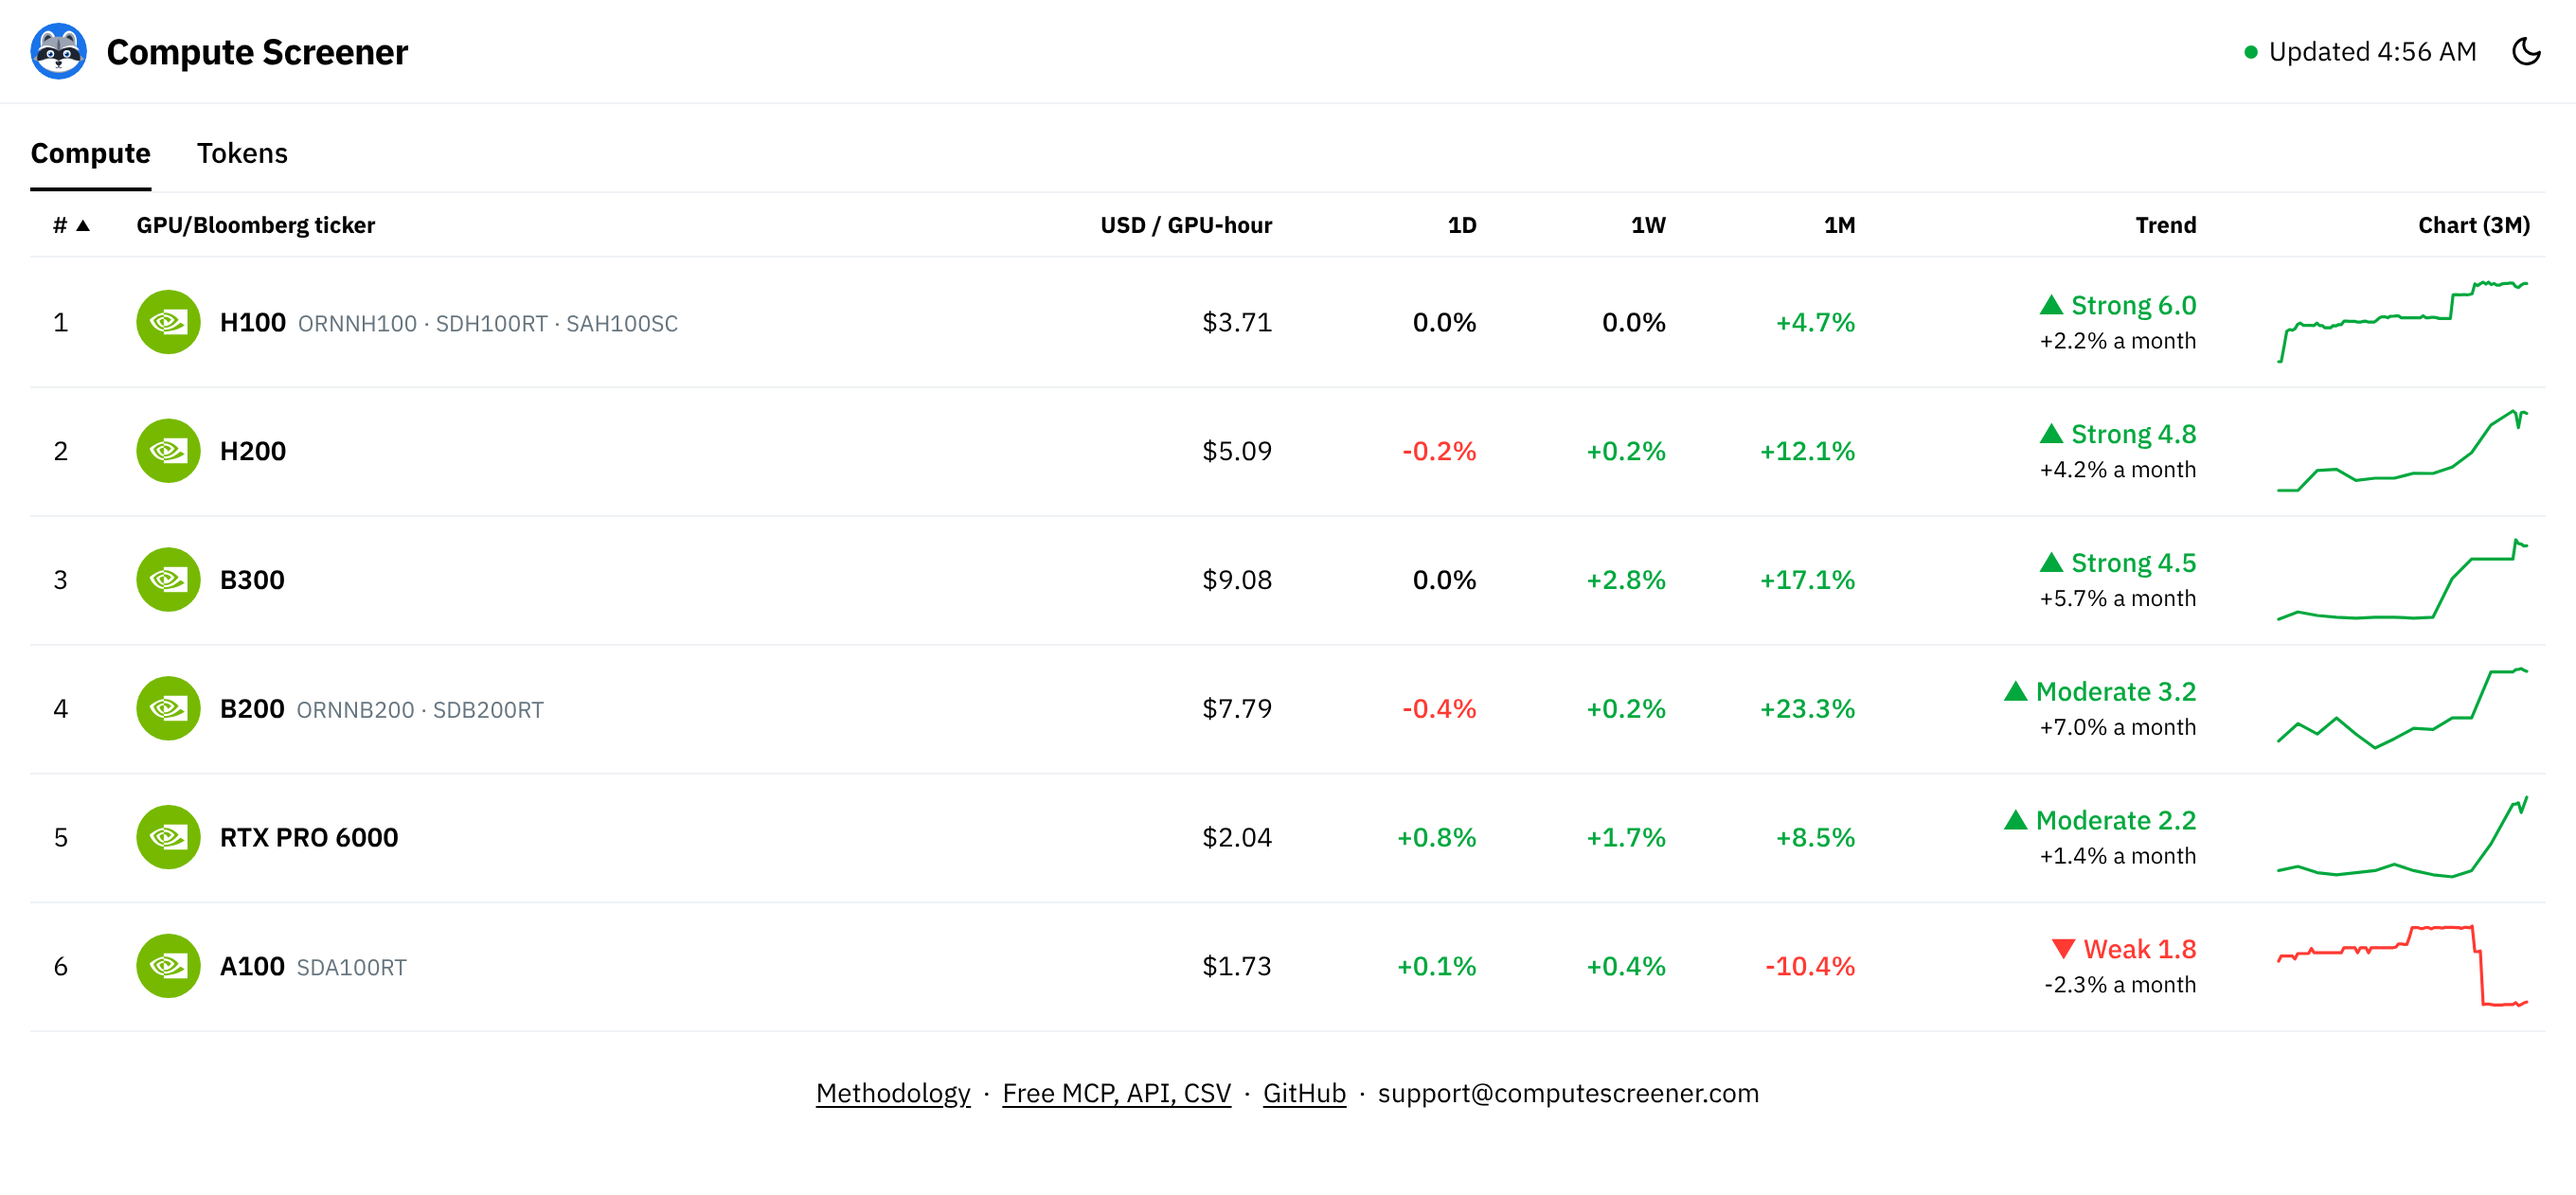
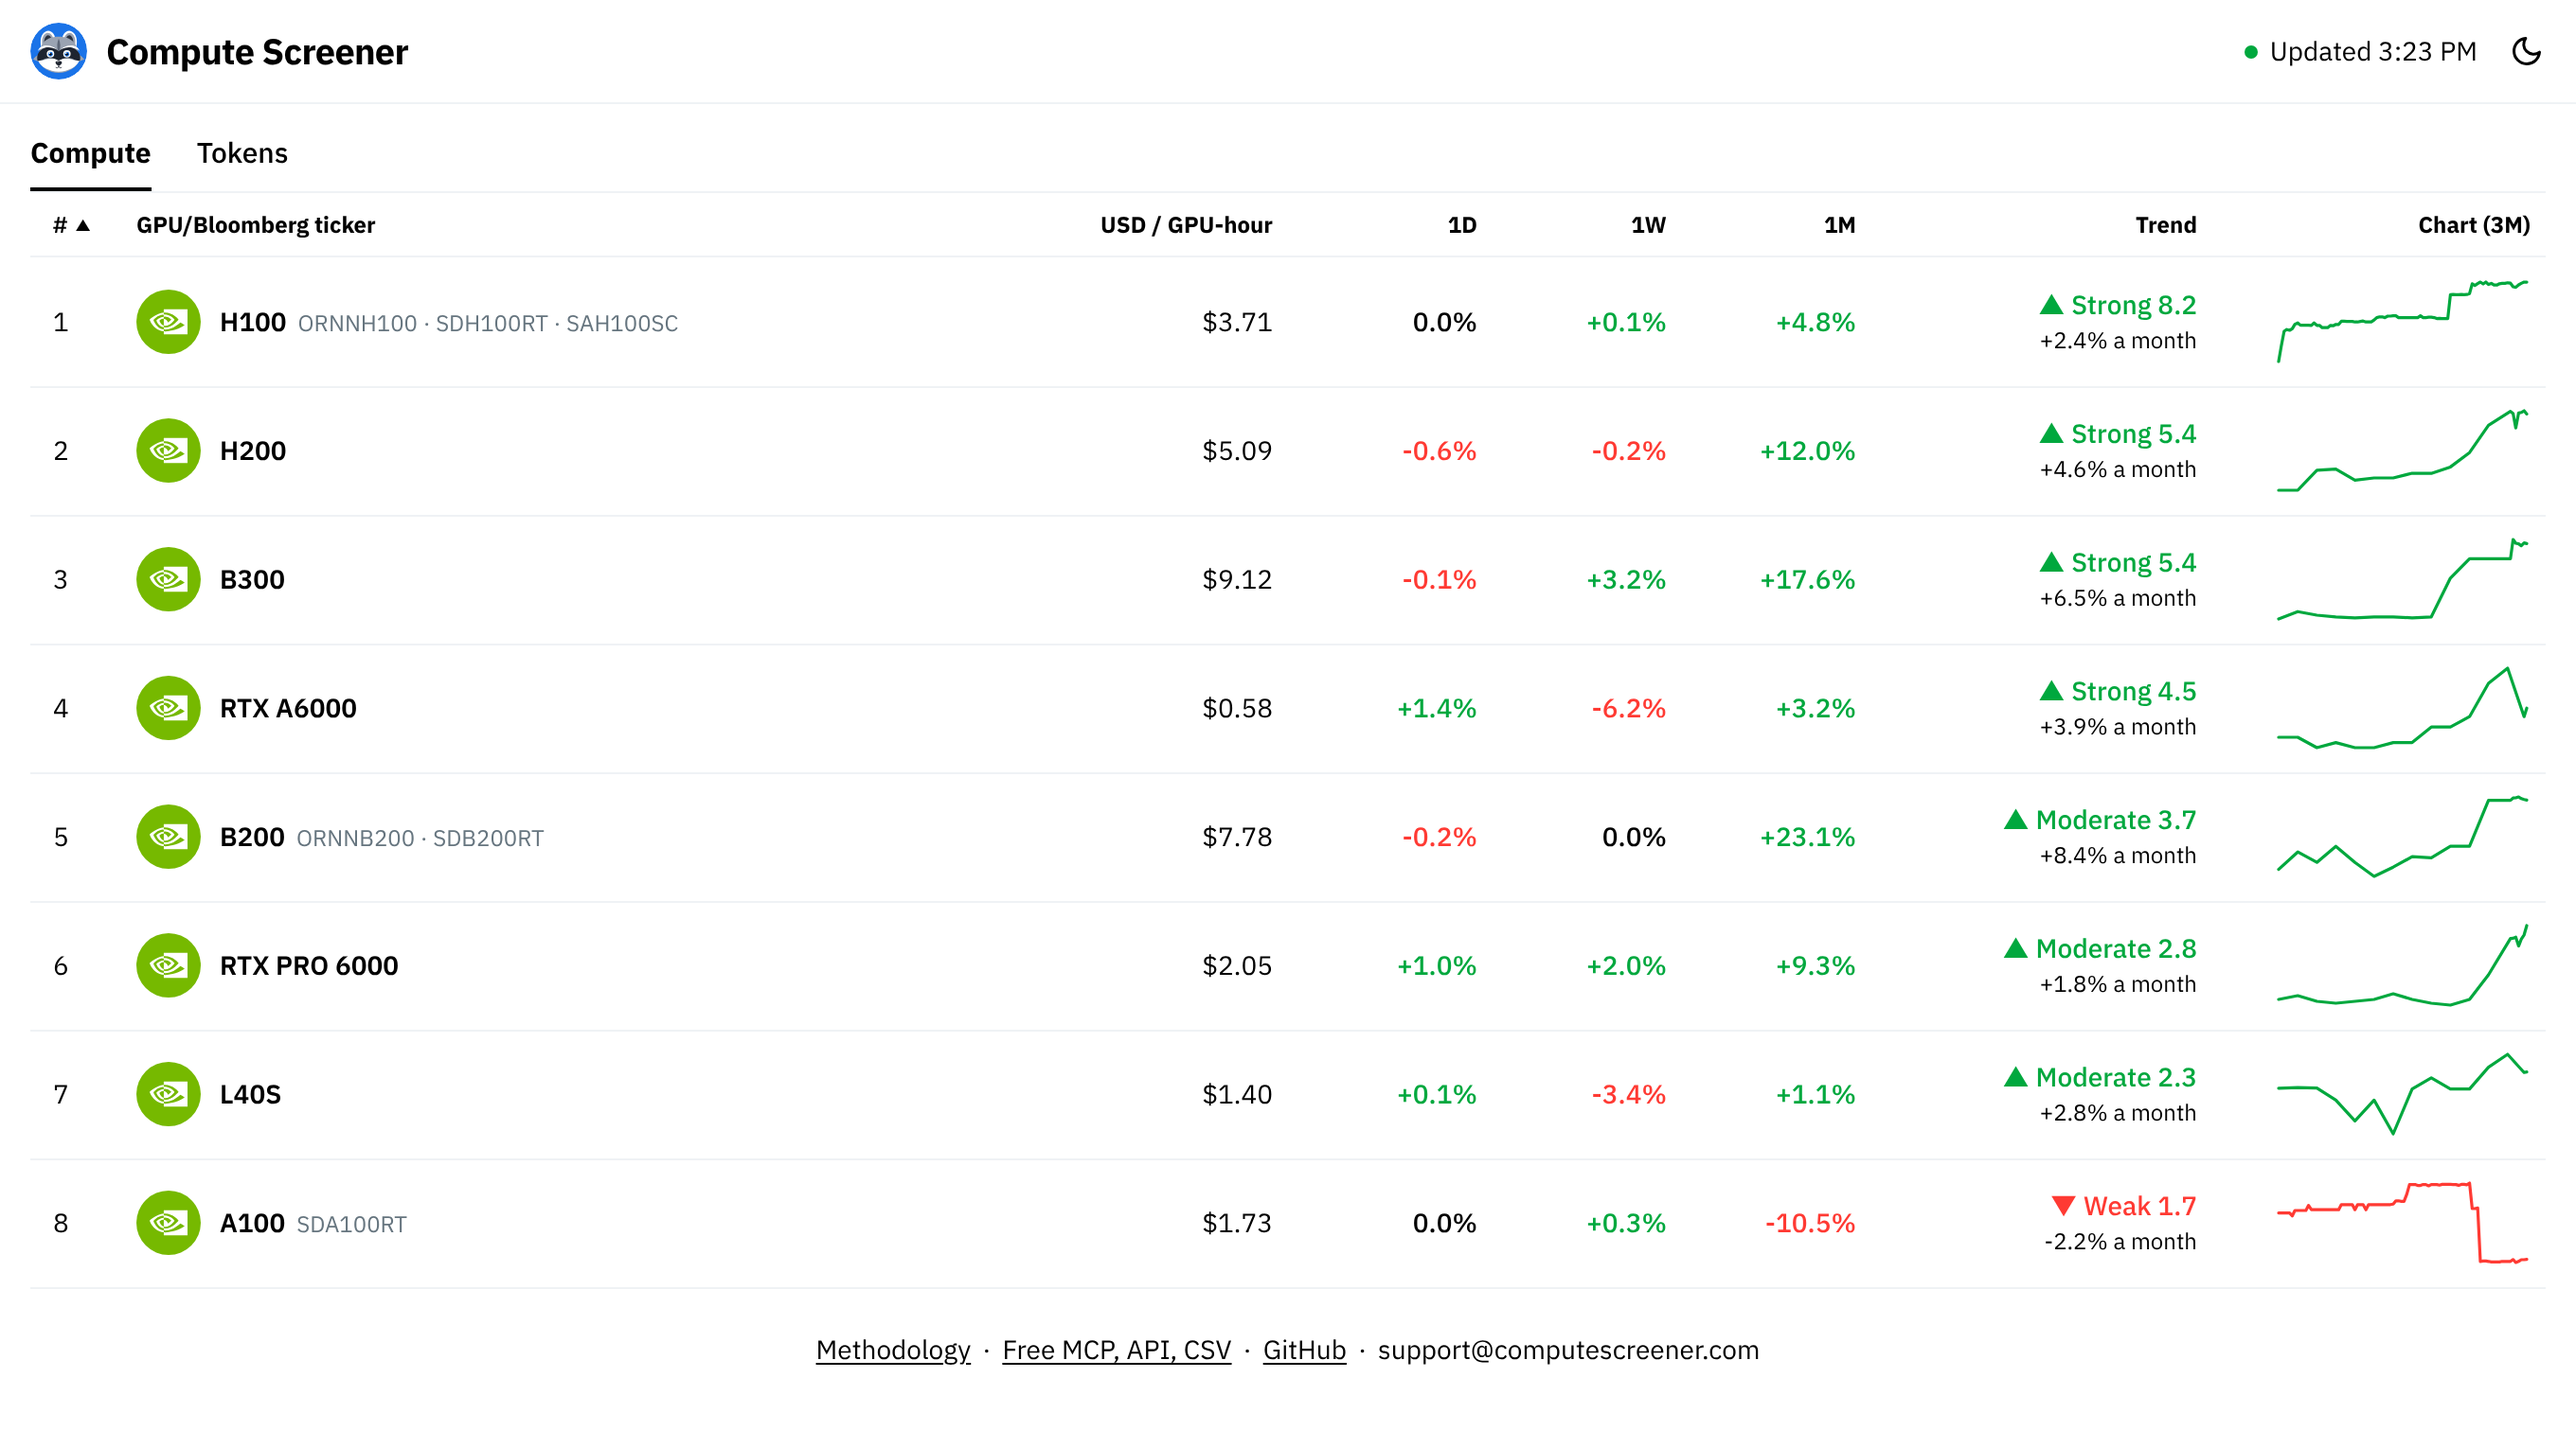
README: screenshot with all eight GPUs
The list as it is today (H100, H200, B300, RTX A6000, B200, RTX PRO 6000, L40S, A100), taken at the same width
and scale as before; the image's description names the eight.

Claude-Session: https://claude.ai/code/session_019hcW9tTdzfgdVPtRGoTEdo

diff --git a/README.md b/README.md
@@ -10,7 +10,7 @@
 </p>
 
 <p align="center">
-  <a href="https://computescreener.com"><img src="docs/screenshot.png" alt="Compute Screener: rental prices of H100, H200, B300, B200, RTX PRO 6000 and A100 in USD per GPU-hour, with 1-day, 1-week and 1-month changes, trend and 3-month chart" width="800"></a>
+  <a href="https://computescreener.com"><img src="docs/screenshot.png" alt="Compute Screener: rental prices of H100, H200, B300, RTX A6000, B200, RTX PRO 6000, L40S and A100 in USD per GPU-hour, with 1-day, 1-week and 1-month changes, trend and 3-month chart" width="800"></a>
 </p>
 
 ## What it tracks
